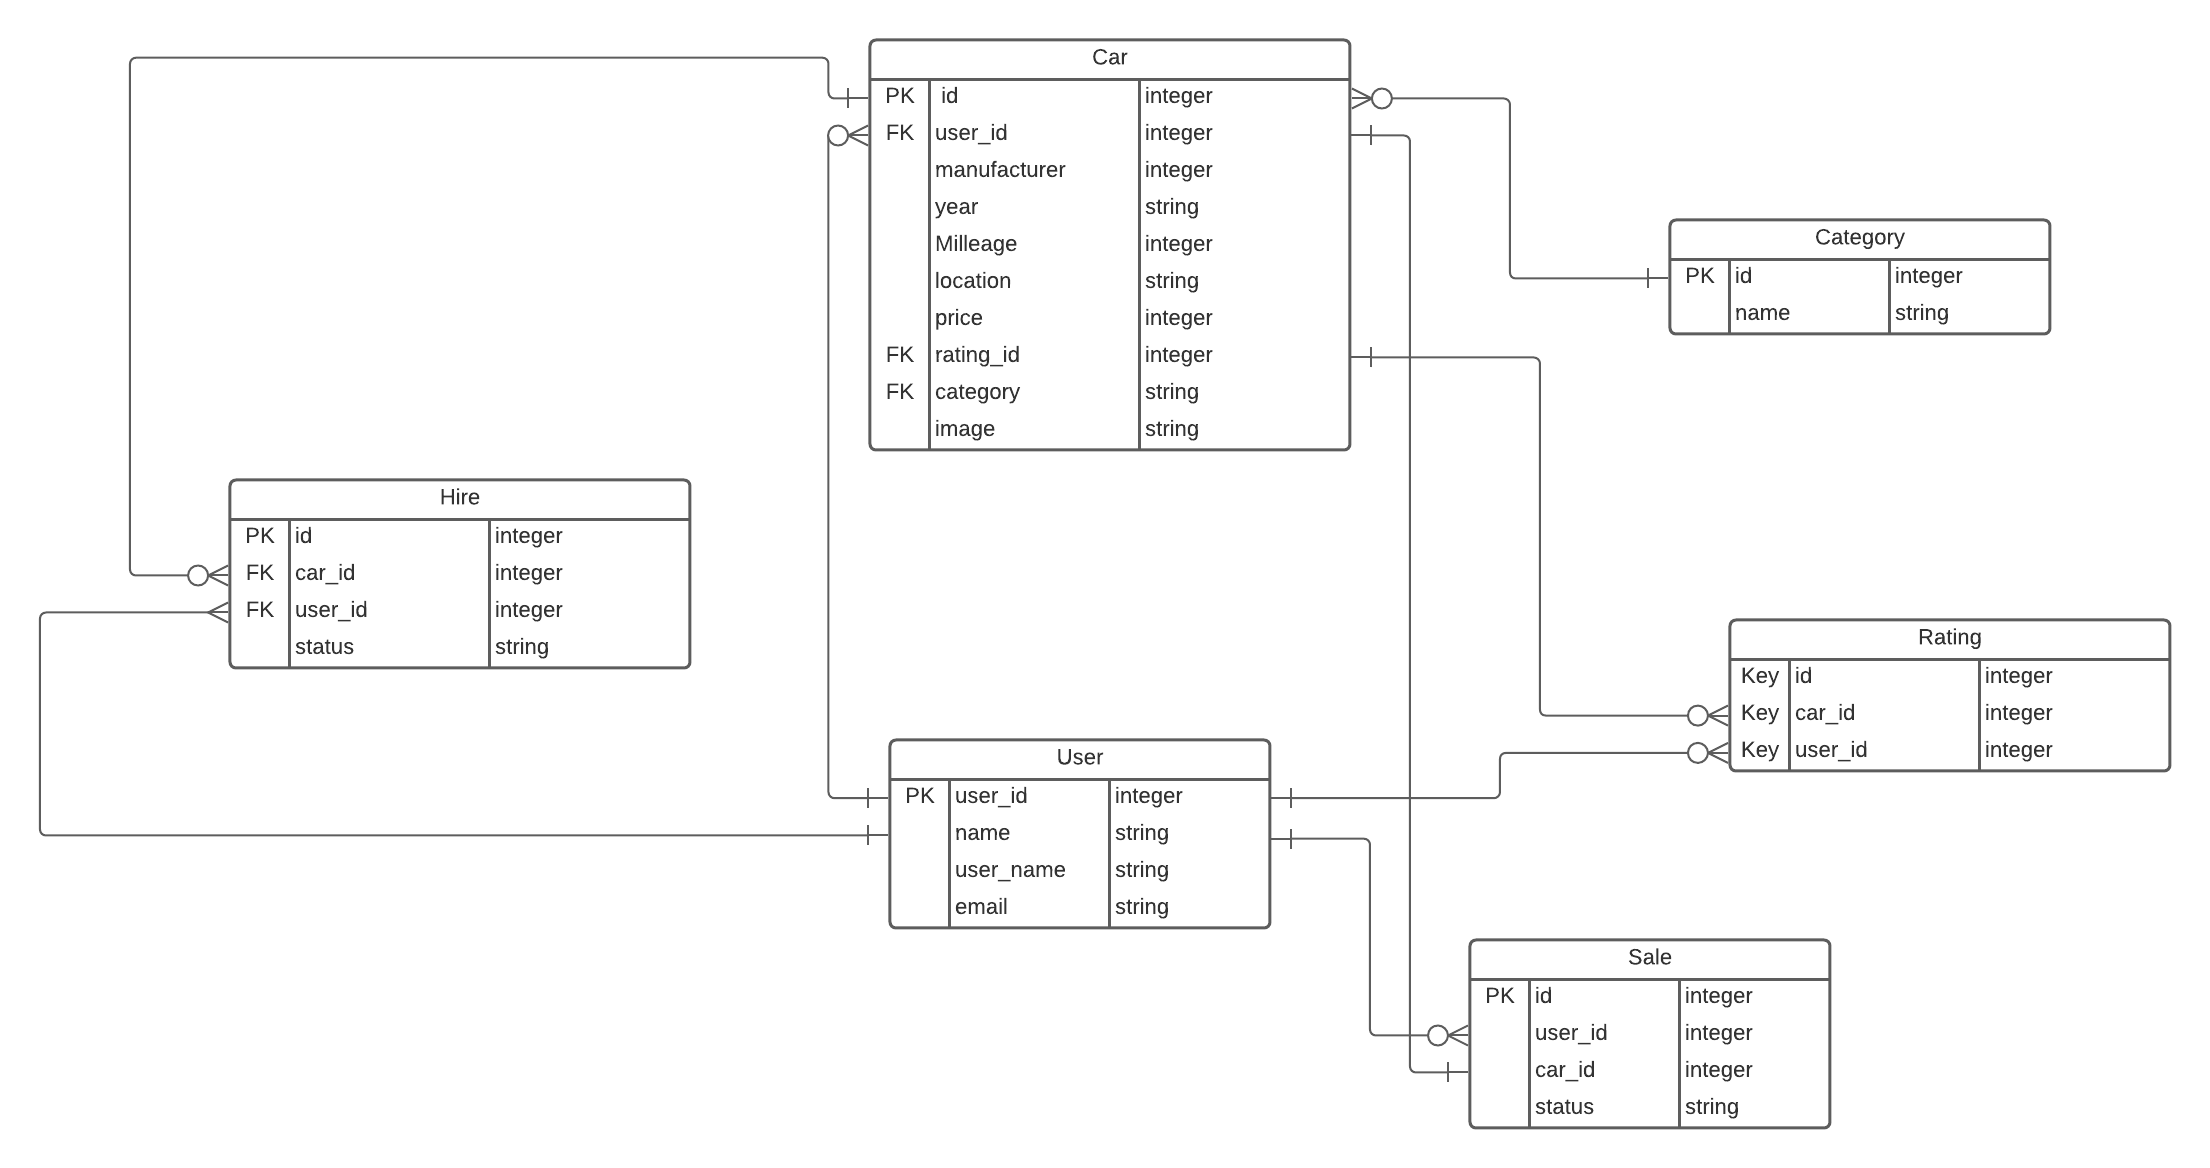
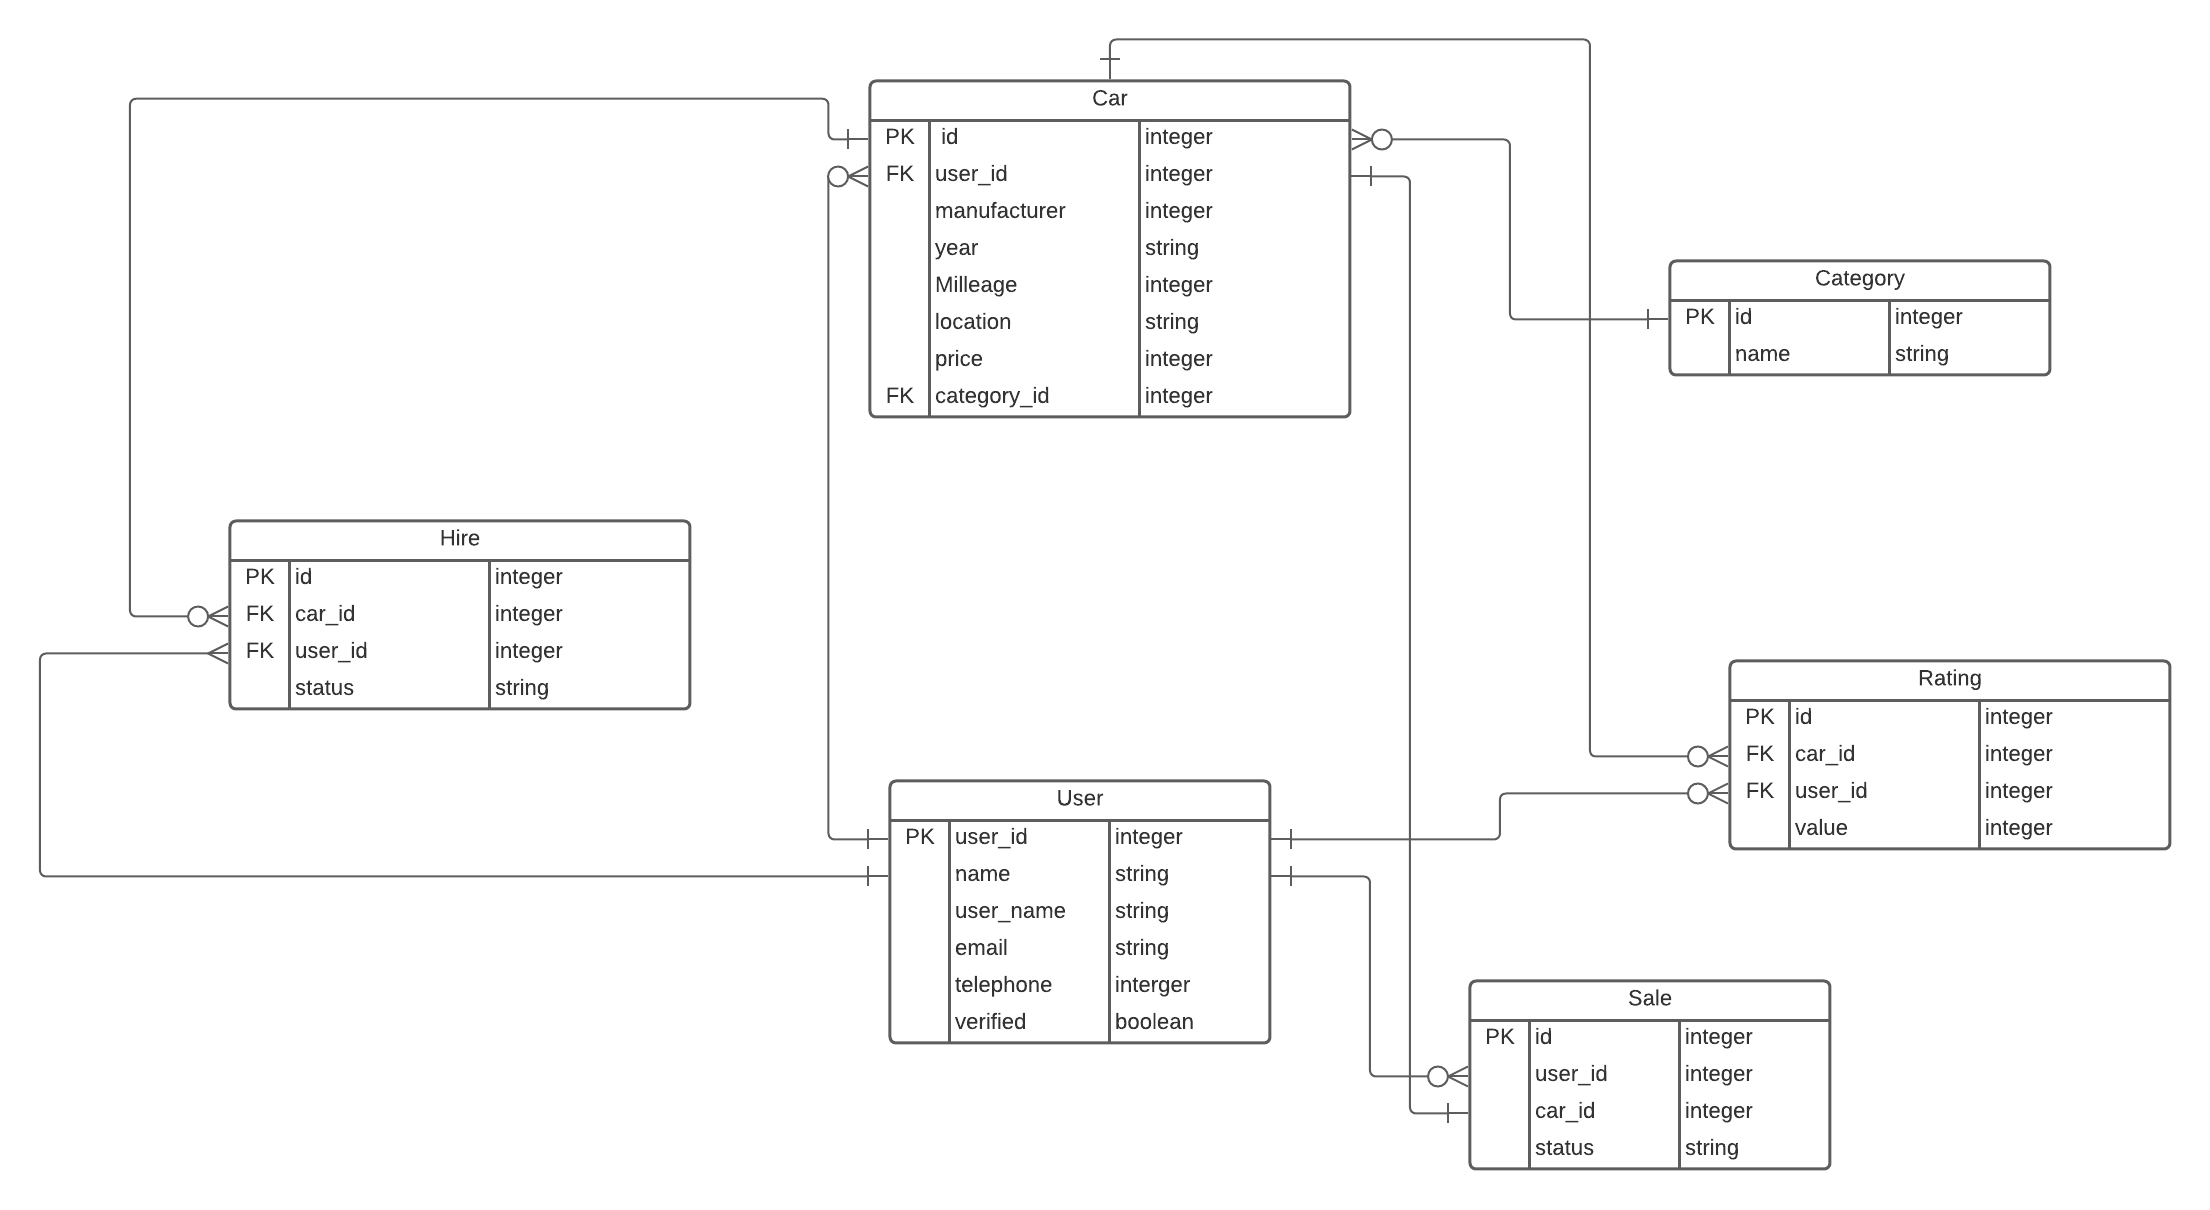
Reset db and create category table

diff --git a/db/schema.rb b/db/schema.rb
@@ -10,24 +10,10 @@
 #
 # It's strongly recommended that you check this file into your version control system.
 
-ActiveRecord::Schema.define(version: 2021_10_05_104358) do
+ActiveRecord::Schema.define(version: 2021_10_05_132439) do
 
   # These are extensions that must be enabled in order to support this database
   enable_extension "plpgsql"
-
-  create_table "cars", force: :cascade do |t|
-    t.bigint "user_id", null: false
-    t.string "manufacturer"
-    t.string "year"
-    t.integer "mileage"
-    t.string "location"
-    t.integer "price"
-    t.bigint "category_id", null: false
-    t.datetime "created_at", precision: 6, null: false
-    t.datetime "updated_at", precision: 6, null: false
-    t.index ["category_id"], name: "index_cars_on_category_id"
-    t.index ["user_id"], name: "index_cars_on_user_id"
-  end
 
   create_table "categories", force: :cascade do |t|
     t.string "name"
@@ -35,59 +21,4 @@ ActiveRecord::Schema.define(version: 2021_10_05_104358) do
     t.datetime "updated_at", precision: 6, null: false
   end
 
-  create_table "hires", force: :cascade do |t|
-    t.bigint "user_id", null: false
-    t.bigint "car_id", null: false
-    t.string "status"
-    t.datetime "created_at", precision: 6, null: false
-    t.datetime "updated_at", precision: 6, null: false
-    t.index ["car_id"], name: "index_hires_on_car_id"
-    t.index ["user_id"], name: "index_hires_on_user_id"
-  end
-
-  create_table "ratings", force: :cascade do |t|
-    t.bigint "user_id", null: false
-    t.bigint "car_id", null: false
-    t.datetime "created_at", precision: 6, null: false
-    t.datetime "updated_at", precision: 6, null: false
-    t.integer "value"
-    t.index ["car_id"], name: "index_ratings_on_car_id"
-    t.index ["user_id"], name: "index_ratings_on_user_id"
-  end
-
-  create_table "sales", force: :cascade do |t|
-    t.bigint "user_id", null: false
-    t.bigint "car_id", null: false
-    t.boolean "status"
-    t.datetime "created_at", precision: 6, null: false
-    t.datetime "updated_at", precision: 6, null: false
-    t.index ["car_id"], name: "index_sales_on_car_id"
-    t.index ["user_id"], name: "index_sales_on_user_id"
-  end
-
-  create_table "users", force: :cascade do |t|
-    t.string "email", default: "", null: false
-    t.string "encrypted_password", default: "", null: false
-    t.string "reset_password_token"
-    t.datetime "reset_password_sent_at"
-    t.datetime "remember_created_at"
-    t.string "user_name"
-    t.string "telephone"
-    t.boolean "verified"
-    t.datetime "created_at", precision: 6, null: false
-    t.datetime "updated_at", precision: 6, null: false
-    t.string "first_name"
-    t.string "last_name"
-    t.index ["email"], name: "index_users_on_email", unique: true
-    t.index ["reset_password_token"], name: "index_users_on_reset_password_token", unique: true
-  end
-
-  add_foreign_key "cars", "categories"
-  add_foreign_key "cars", "users"
-  add_foreign_key "hires", "cars"
-  add_foreign_key "hires", "users"
-  add_foreign_key "ratings", "cars"
-  add_foreign_key "ratings", "users"
-  add_foreign_key "sales", "cars"
-  add_foreign_key "sales", "users"
 end
